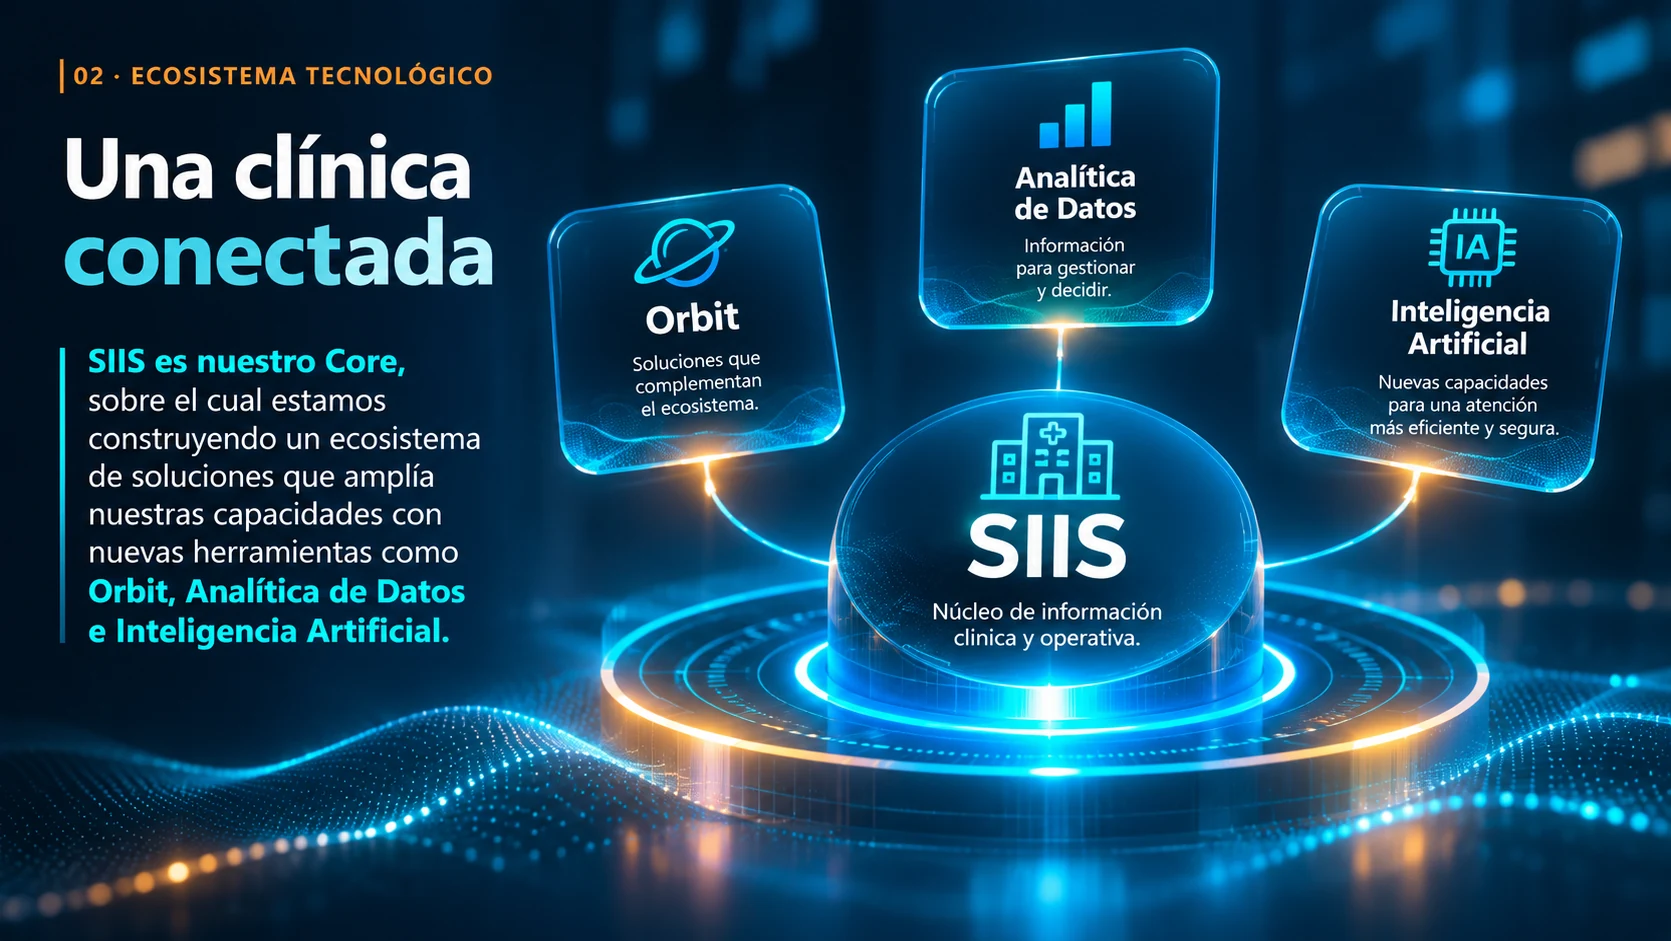
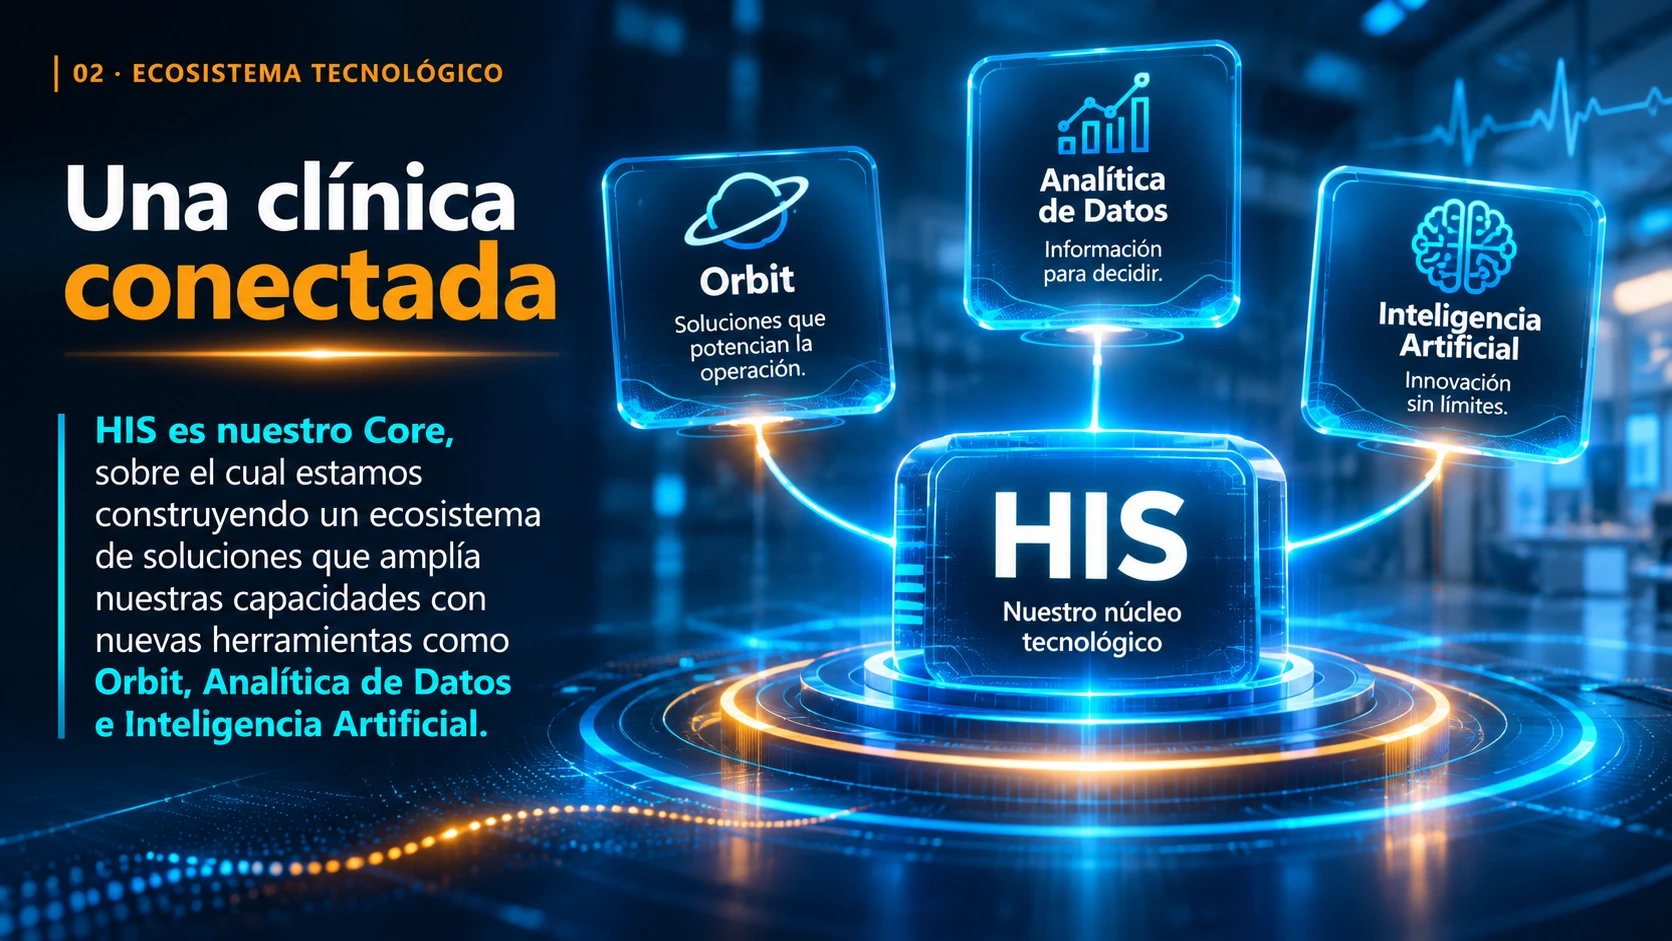
Add files via upload

diff --git a/seminario.html b/seminario.html
@@ -187,7 +187,7 @@
 @media(max-width:800px){.human-photo{left:8%;opacity:.65}.human-vignette{background:linear-gradient(90deg,#031222fa 0%,#031222dc 55%,#03122255 100%)}.human-content{width:95%;padding:28px 26px 100px}.slide.human-cinema .human-scene h2{font-size:clamp(37px,7vw,70px)}}
 @media(prefers-reduced-motion:reduce){.human-scene,.human-photo{animation:none!important;transition:none!important}}
 
-/* V15: pantalla real 3/14, SIIS como CORE del ecosistema */
+/* V15: pantalla real 3/14, HIS como CORE del ecosistema */
 .slide.ecosystem-cinema{padding:0;background:#031626;overflow:hidden;isolation:isolate}
 .slide.ecosystem-cinema::after{display:none}
 .eco-bg{position:absolute;inset:0;background:url('ecosistema-cinematografico.webp') center center/cover no-repeat;filter:saturate(1.08);transform:scale(1.035);transition:transform 5s ease,filter 1s ease}
@@ -255,10 +255,10 @@
     <div class="human-footer"><span>TECNOLOGÍA AL SERVICIO DEL TALENTO HUMANO</span><div><strong class="v10-stage-counter">01 / 03</strong><span class="human-stage-hint"> · Pulsa → para continuar</span></div></div>
   </div>
 </section>
-<section class="slide ecosystem-cinema" data-cinematic="ecosystem" data-stage="0" aria-label="Ecosistema tecnológico SIIS Orbit Analítica e Inteligencia Artificial">
+<section class="slide ecosystem-cinema" data-cinematic="ecosystem" data-stage="0" aria-label="Ecosistema tecnológico HIS Orbit Analítica e Inteligencia Artificial">
  <div class="eco-bg" aria-hidden="true"></div><div class="eco-shade" aria-hidden="true"></div><div class="eco-beams" aria-hidden="true"></div>
  <div class="eco-copy"><div class="eco-eyebrow">02 · ECOSISTEMA TECNOLÓGICO</div><h2>UN CORE.<br><em>UN ECOSISTEMA.</em></h2>
- <div class="eco-moment eco-moment-0"><strong>SIIS ES NUESTRO NÚCLEO.</strong><p>La base de nuestra información clínica y operativa.</p></div>
+ <div class="eco-moment eco-moment-0"><strong>HIS ES NUESTRO NÚCLEO.</strong><p>La base de nuestra información clínica y operativa.</p></div>
  <div class="eco-moment eco-moment-1"><strong>LAS SOLUCIONES SE CONECTAN.</strong><p>Orbit y la analítica de datos amplían las capacidades del ecosistema.</p></div>
  <div class="eco-moment eco-moment-2"><strong>LA INTELIGENCIA ARTIFICIAL ABRE NUEVAS POSIBILIDADES.</strong><p>Un ecosistema que evoluciona para apoyar decisiones y mejorar la atención.</p></div>
  <div class="eco-progress"><span class="v10-stage-counter">01 / 03</span><span class="eco-hint">Pulsa → para conectar el ecosistema</span></div></div>
